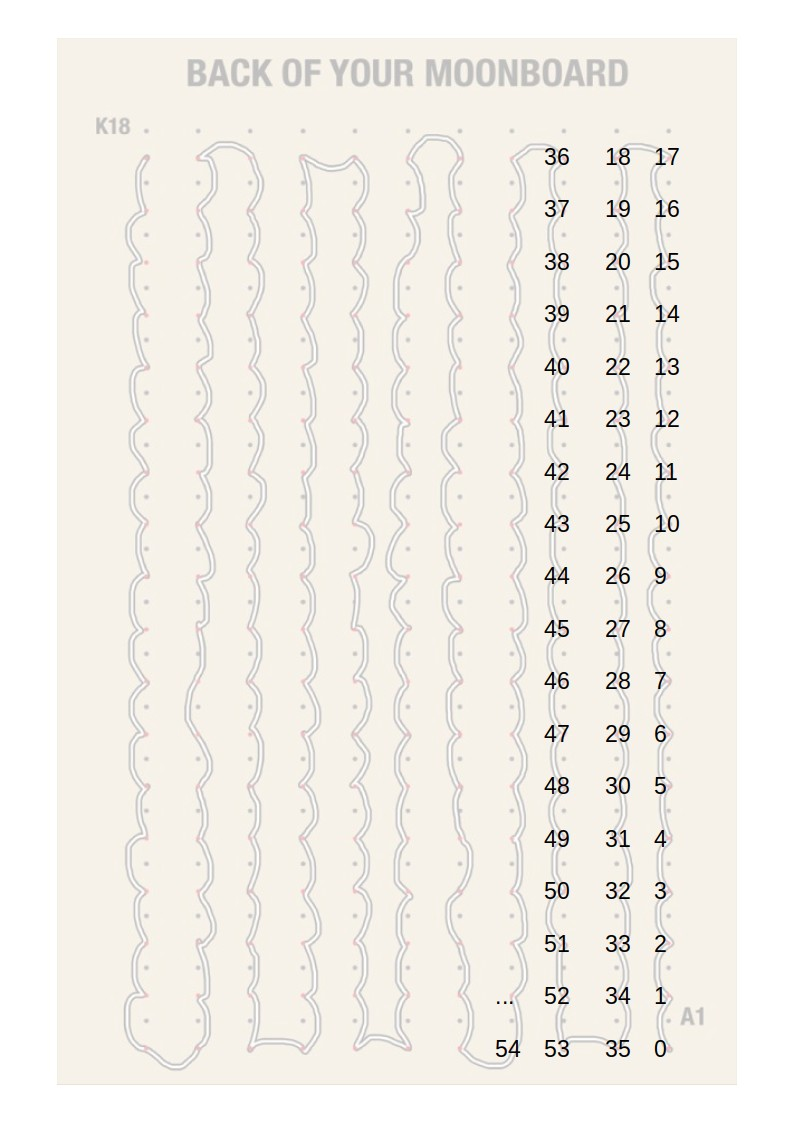
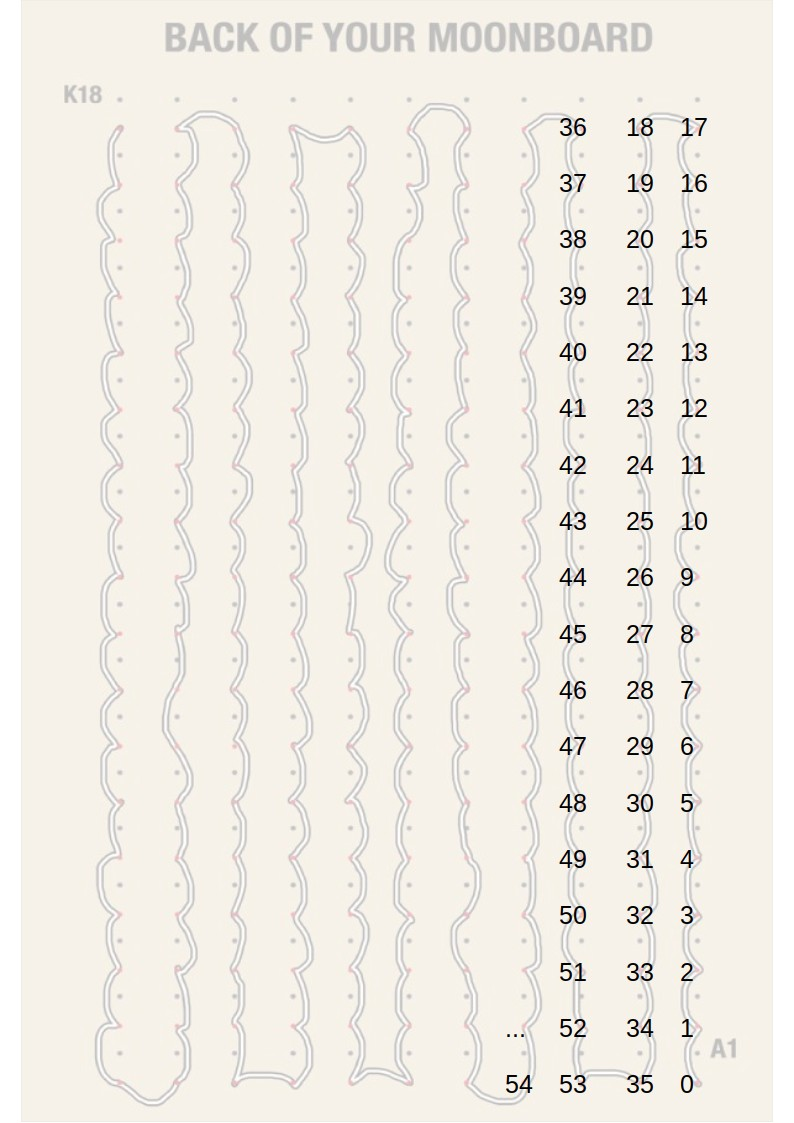
pictures

Changed region(s): [[0.0302, 0.0, 0.9673, 1.0], [0.0605, 0.0623, 0.1209, 0.0935]]

diff --git a/README.md b/README.md
@@ -45,8 +45,8 @@ The most common LED wiring pattern (here for a MoonBoard standard) goes like thi
 
 The MoonBoard App encodes holds in the same way. Hold A1 is 0, hold A2 is 1, hold A3 is 2 and so on.
 
-![LEDs](doc/leds_front.jpg)
-![LEDs](doc/leds_back.jpg)
+<img src="doc/leds_front.jpg" width="400">
+<img src="doc/leds_back.jpg" width="400">
 
 ## Good to know
 - Wiring: Usually, blue is GND/negative, brown is positive, yellow/green is data. Please double-check! It might be a good idea to use a resistor (e.g. 330 ohms) in the data line!
